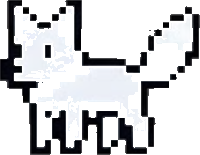
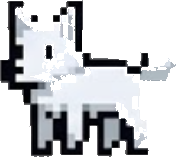
Re-extract the running fox, rename act 2, thin out the ladies
The running fox was there all along - 998 frames to the sitting pose's
798 over 30s - it just looked like nothing. The first extraction keyed
the checkerboard by colour, and the dark checker grey (126) is the same
value as the fox's own outline, so the flood leaked through gaps in the
silhouette and ate the white inside its legs. At 26px on a night street
that reads as no fox at all: hollow legs, detached tail, a white smear.

Re-done with tight bands - 205-234 light, 108-148 dark, 150-200 for the
antialiased seams so the flood can still cross square boundaries, and the
fox's own 240+ white deliberately outside all of them - then keeping only
the largest connected blob to drop the speckle. Solid body, four legs,
matches the sitting pose.

Act 2 is GAATAVISUPLE MEDIA.

Parliament's ladies cut from four to one, a third as asked. Act 2 keeps
its three.

Cache buster to v12.

diff --git a/game.js b/game.js
@@ -736,7 +736,7 @@ const LEVEL_2 = {
   finishX: null,            // beating the Anchor ends the act
   finalGate: null,
   voidColor: '#080a12',
-  subtitle: 'GAATAVISUPLE ETERI',
+  subtitle: 'GAATAVISUPLE MEDIA',
   card: [
     { t: 0.0, s: 'THEN THEY CAME',   c: '#e8e0d0', sc: 1 },
     { t: 0.5, s: 'FOR THE NEWSROOM', c: '#e8e0d0', sc: 1 },
@@ -927,7 +927,9 @@ const LEVEL_3 = {
   ],
 
   flags: [10, 50, 80, 126, 175, 200],
-  charmers: [28, 72, 124, 178],
+  // cut to a third on playtest feedback: four of them along one avenue was
+  // more interruption than hazard
+  charmers: [124],
 };
 
 /* `LEVEL` is read from ~40 places and written from none, so two levels costs

diff --git a/index.html b/index.html
@@ -44,6 +44,6 @@
        change you just shipped simply is not there. index.html itself is served
        with max-age=600, so the new number reaches them within ten minutes and
        pulls the new script with it. -->
-  <script src="game.js?v=11"></script>
+  <script src="game.js?v=12"></script>
 </body>
 </html>

diff --git a/README.md b/README.md
@@ -446,7 +446,7 @@ new number reaches them within ten minutes and pulls the new script with it.
 | | | |
 |---|---|---|
 | 1 | GAATAVISUPLE ACHARA | Batumi, 2004. Aslan, the bridge, the ultra powder. |
-| 2 | GAATAVISUPLE ETERI | The television company. Reporters, smashable monitors, the Anchor. |
+| 2 | GAATAVISUPLE MEDIA | The television company. Reporters, smashable monitors, the Anchor. |
 | 3 | GAATAVISUPLE PARLAMENTI | Rustaveli, 2003. Was act 2 until act 2 was inserted ahead of it. |
 
 **Asset prefixes follow the act number**: `l2_*` is the television company,
@@ -457,6 +457,17 @@ shows up there immediately.
 
 
 ## Act 2: the television company
+
+`l3_fox_run.png` was re-extracted from `fox1.png`. The first pass keyed the
+checkerboard by colour, but the dark checker grey (126) is the same value as
+the fox's own outline, so the flood leaked through gaps in the silhouette and
+ate the white *inside* the legs — at 26px tall it came out hollow-legged with a
+detached tail, which on Act 3's night backdrop read as no fox at all. The
+working recipe is tight bands (205-234 light, 108-148 dark, 150-200 for the
+antialiased seams so the flood can cross square boundaries) with the fox's
+240+ white deliberately excluded, then keeping only the largest connected
+blob to drop the speckle the flood could not reach. Both poses are confirmed
+on screen: 998 run frames to 798 sit frames over 30s.
 
 Reporters (`l2girl`, `l2girl2`, `l2man`) walk the building and fire **FREE
 SPEECH** at head height. Same `Bullet`, same lane as Edika's shots, so the
